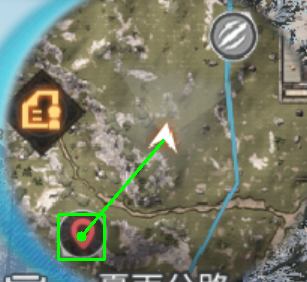
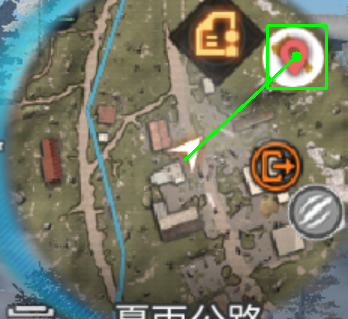
集成 箭头方向 & 小地图定位标记

diff --git a/collect/S2/S2.py b/collect/S2/S2.py
@@ -255,7 +255,7 @@ if __name__ == "__main__":
         img2 = None
         coords2 = None
         template_paths = [
-            r"D:\mingriHelper\collect\S2\images\point\point.png",
+            r"D:\mingriHelper\collect\S2\images\point\point_1.png",
             r"D:\mingriHelper\collect\S2\images\point\point_2.png"
         ]
         
